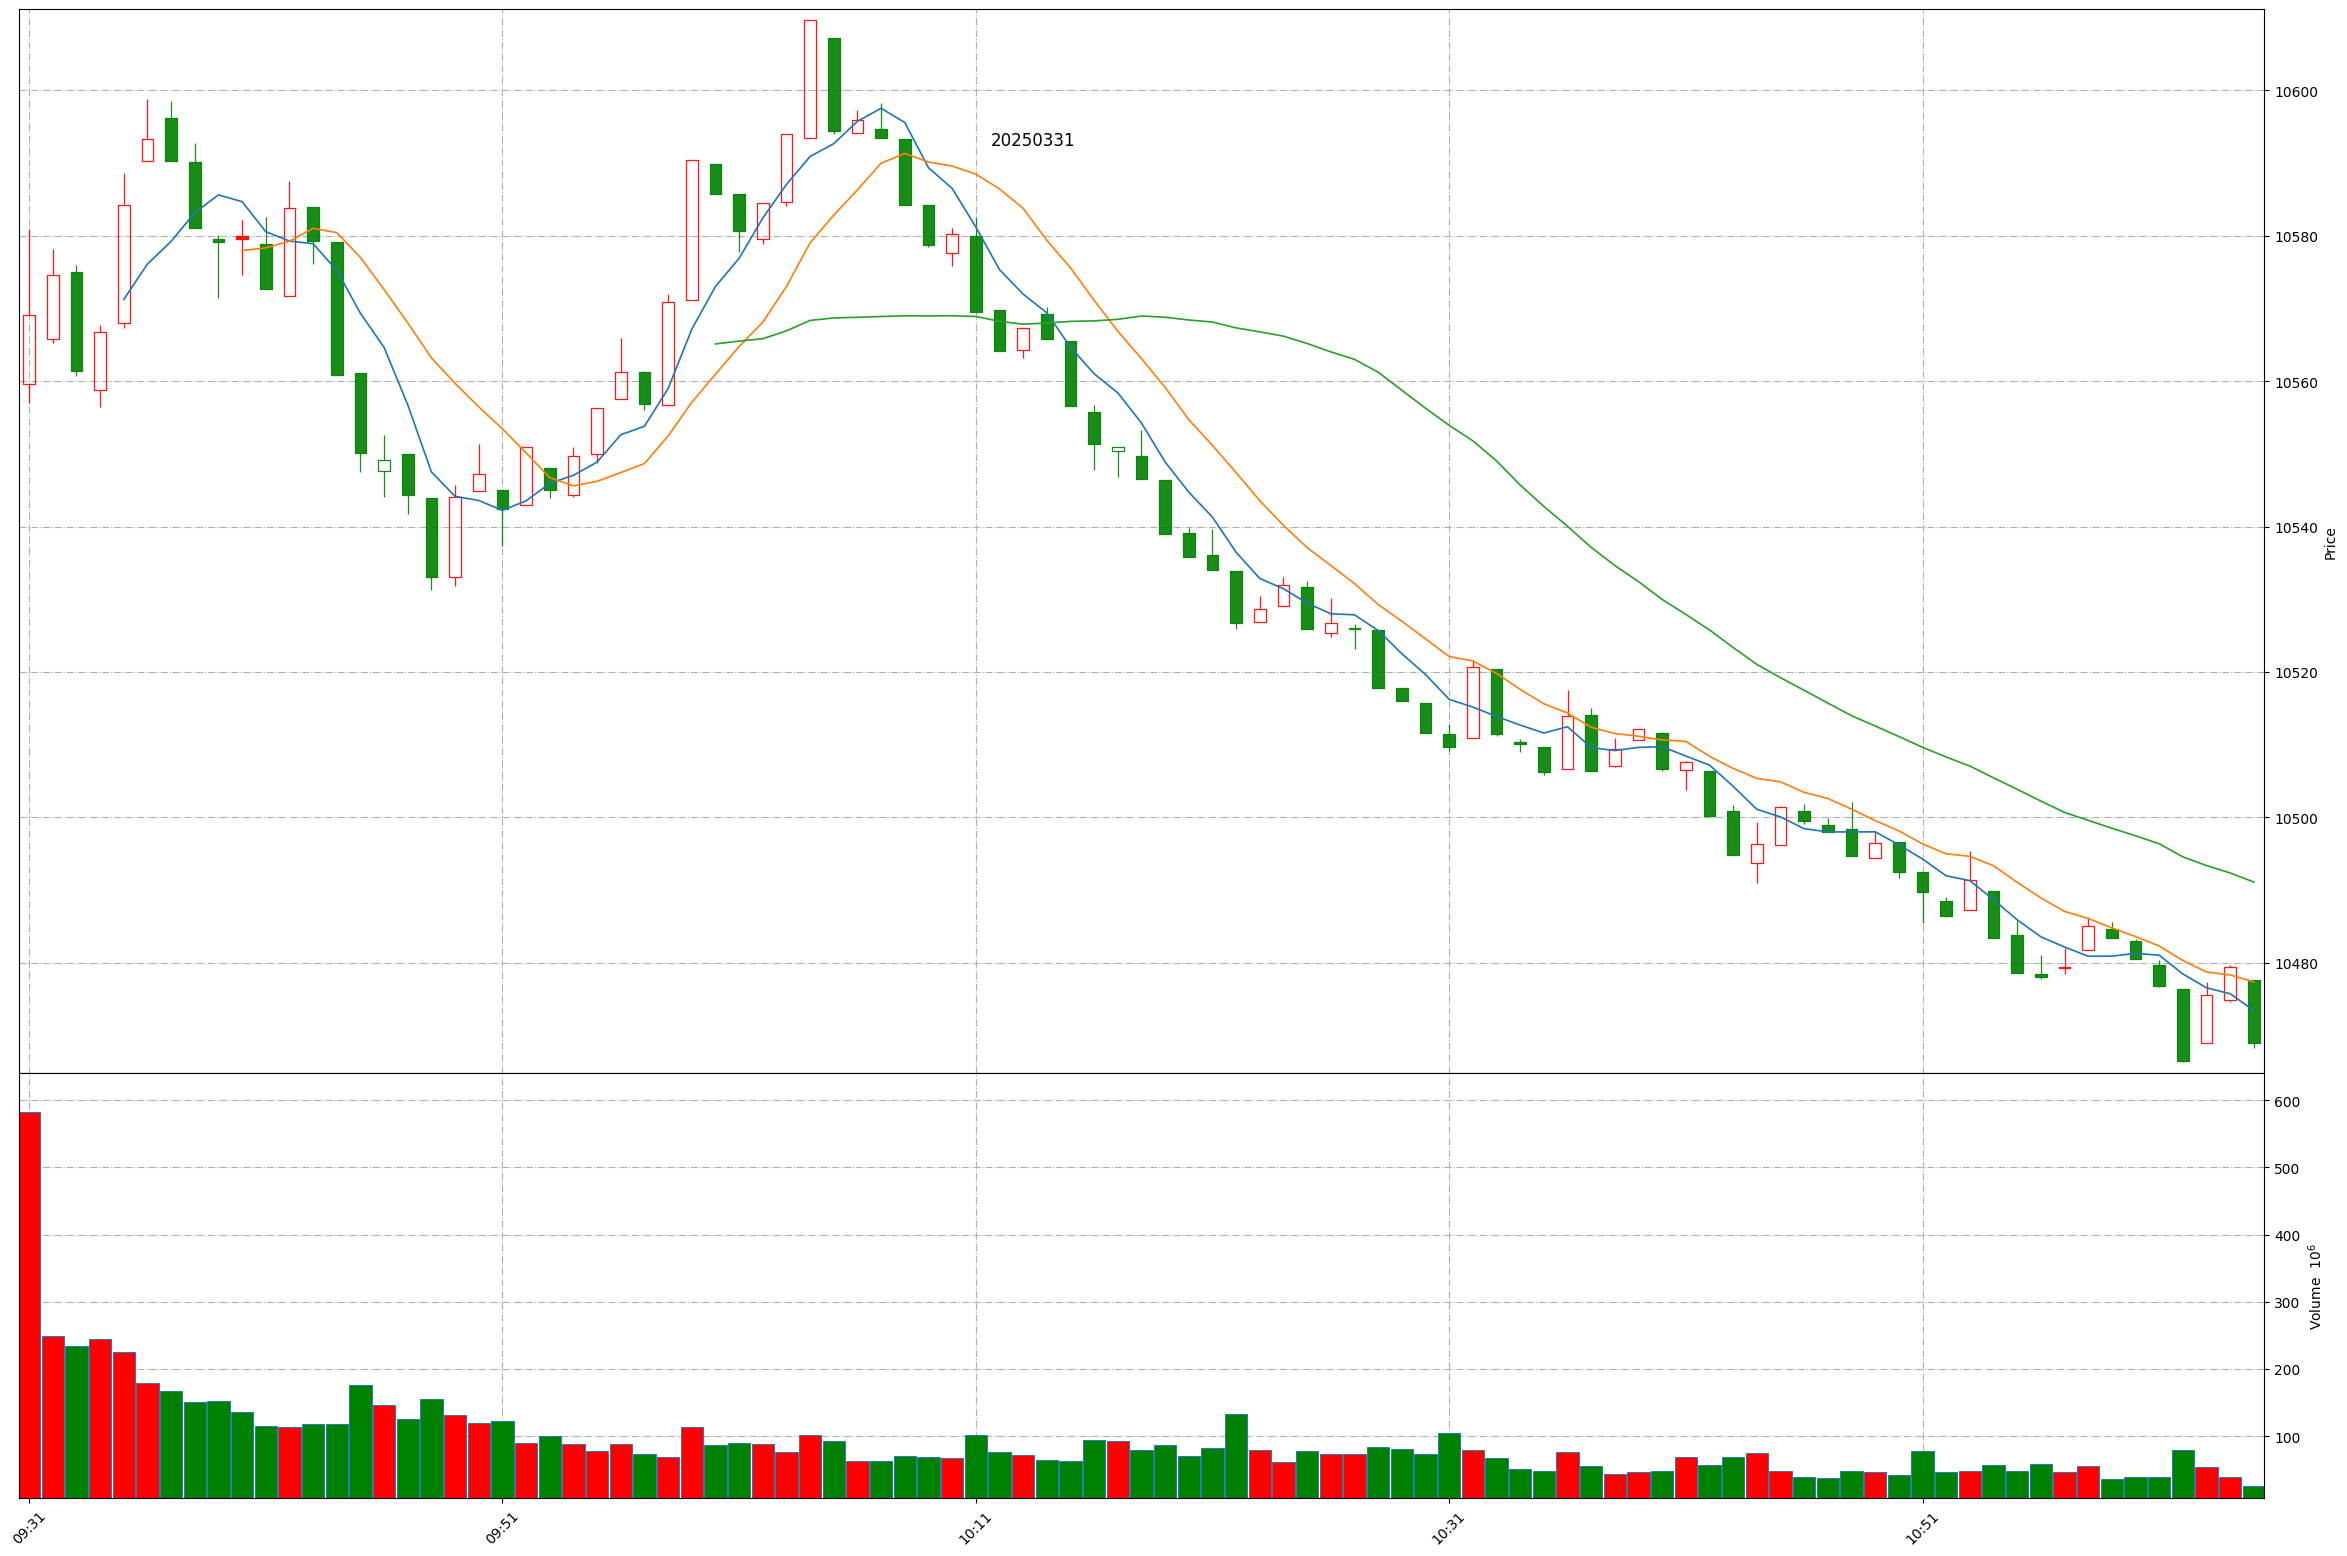
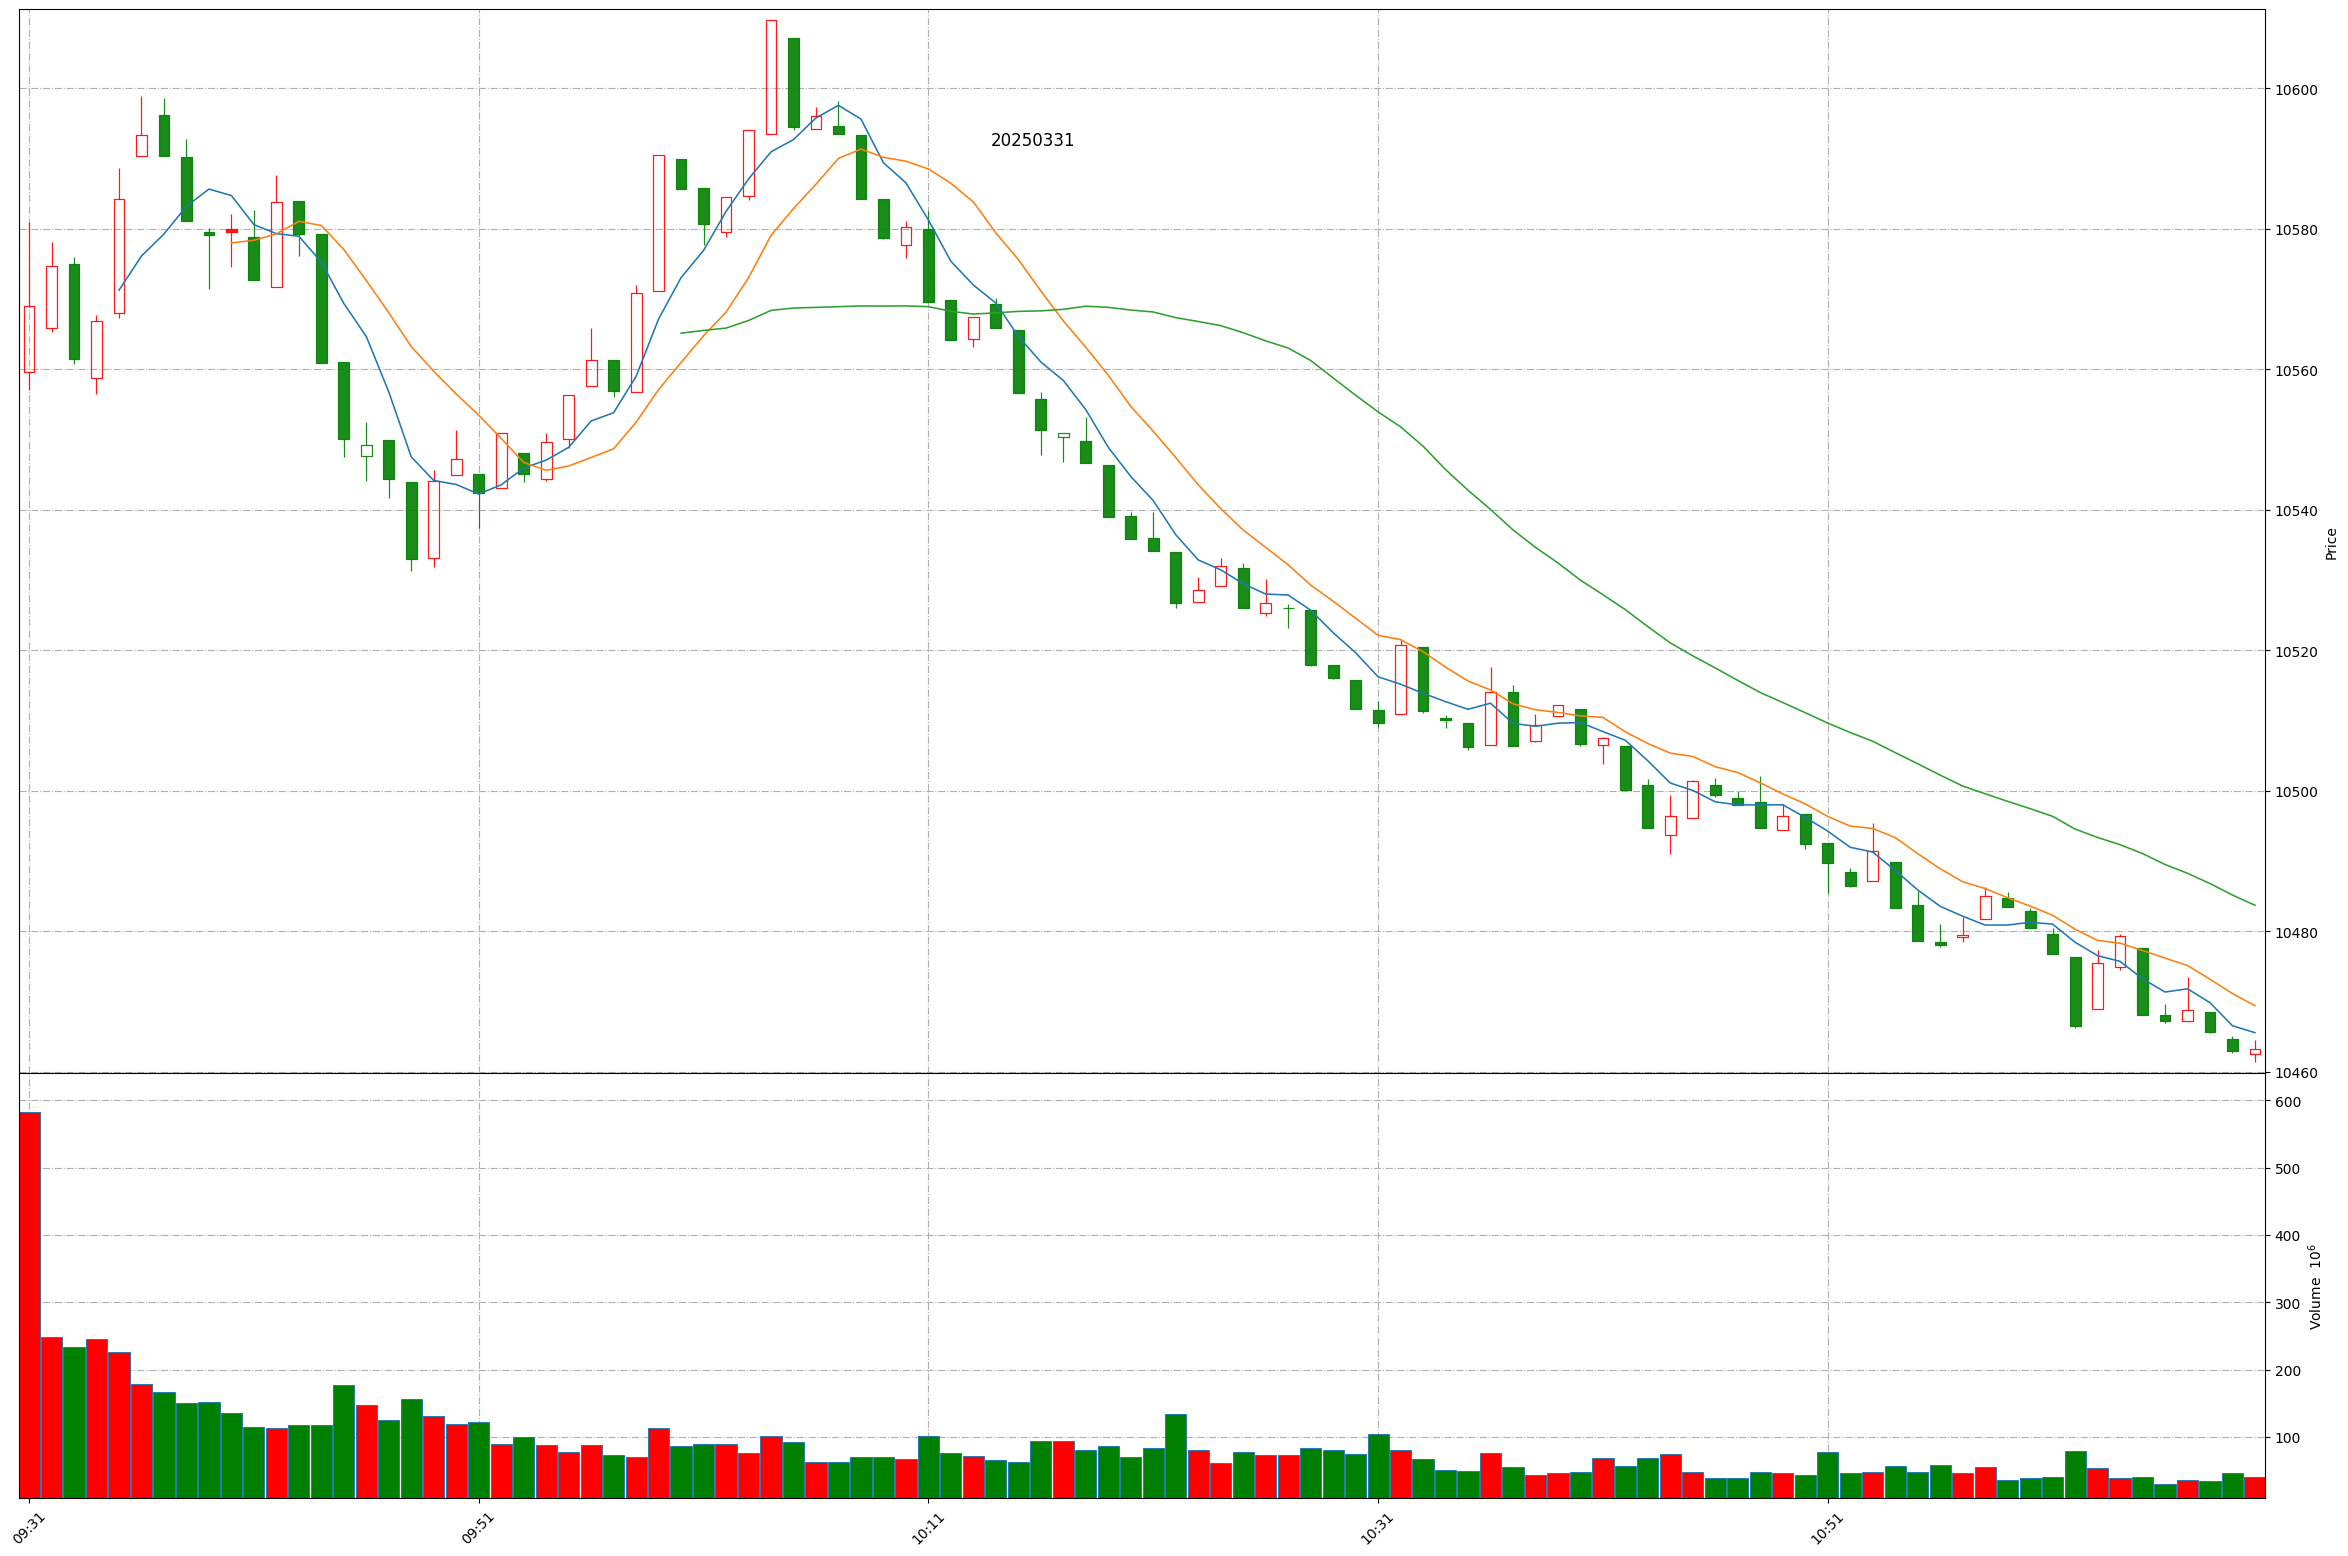
Github action update at 2025-03-31 11:09:45.

diff --git a/README.md b/README.md
@@ -1,11 +1,11 @@
 
 # Daily-A-share-market-quotes 每日 A 股指数（5min 更新）- 20250331
 
-### 上证指数 20250331 11:4
+### 上证指数 20250331 11:9
 ![](./fig/2025/3/20250331-sh000001.png)
 
-### 深证成指 20250331 11:4
+### 深证成指 20250331 11:9
 ![](./fig/2025/3/20250331-sz399001.png)
 
-### 北证50 20250331 11:4
+### 北证50 20250331 11:9
 ![](./fig/2025/3/20250331-bj899050.png)
